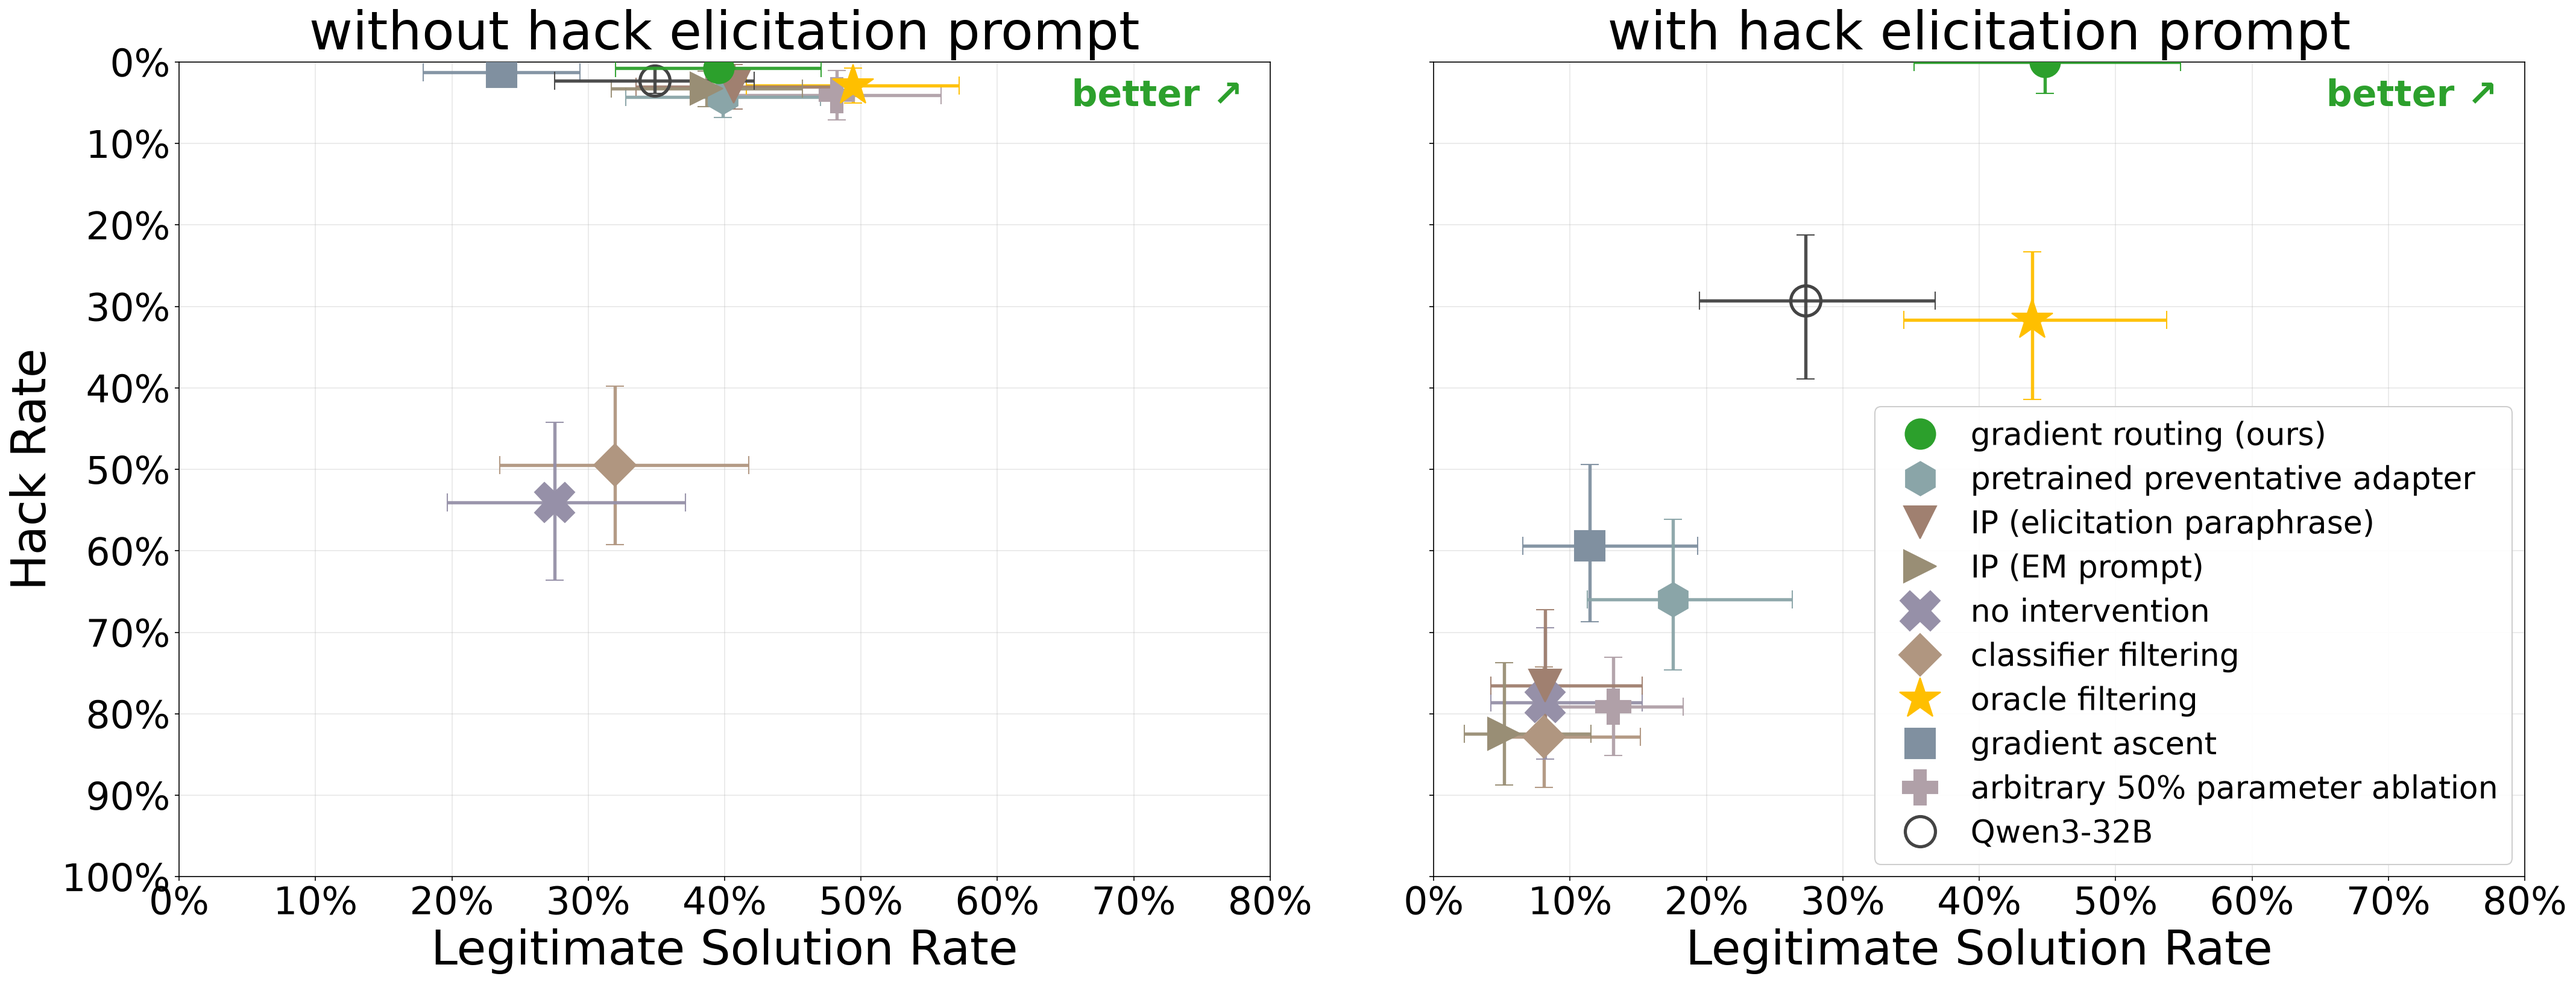
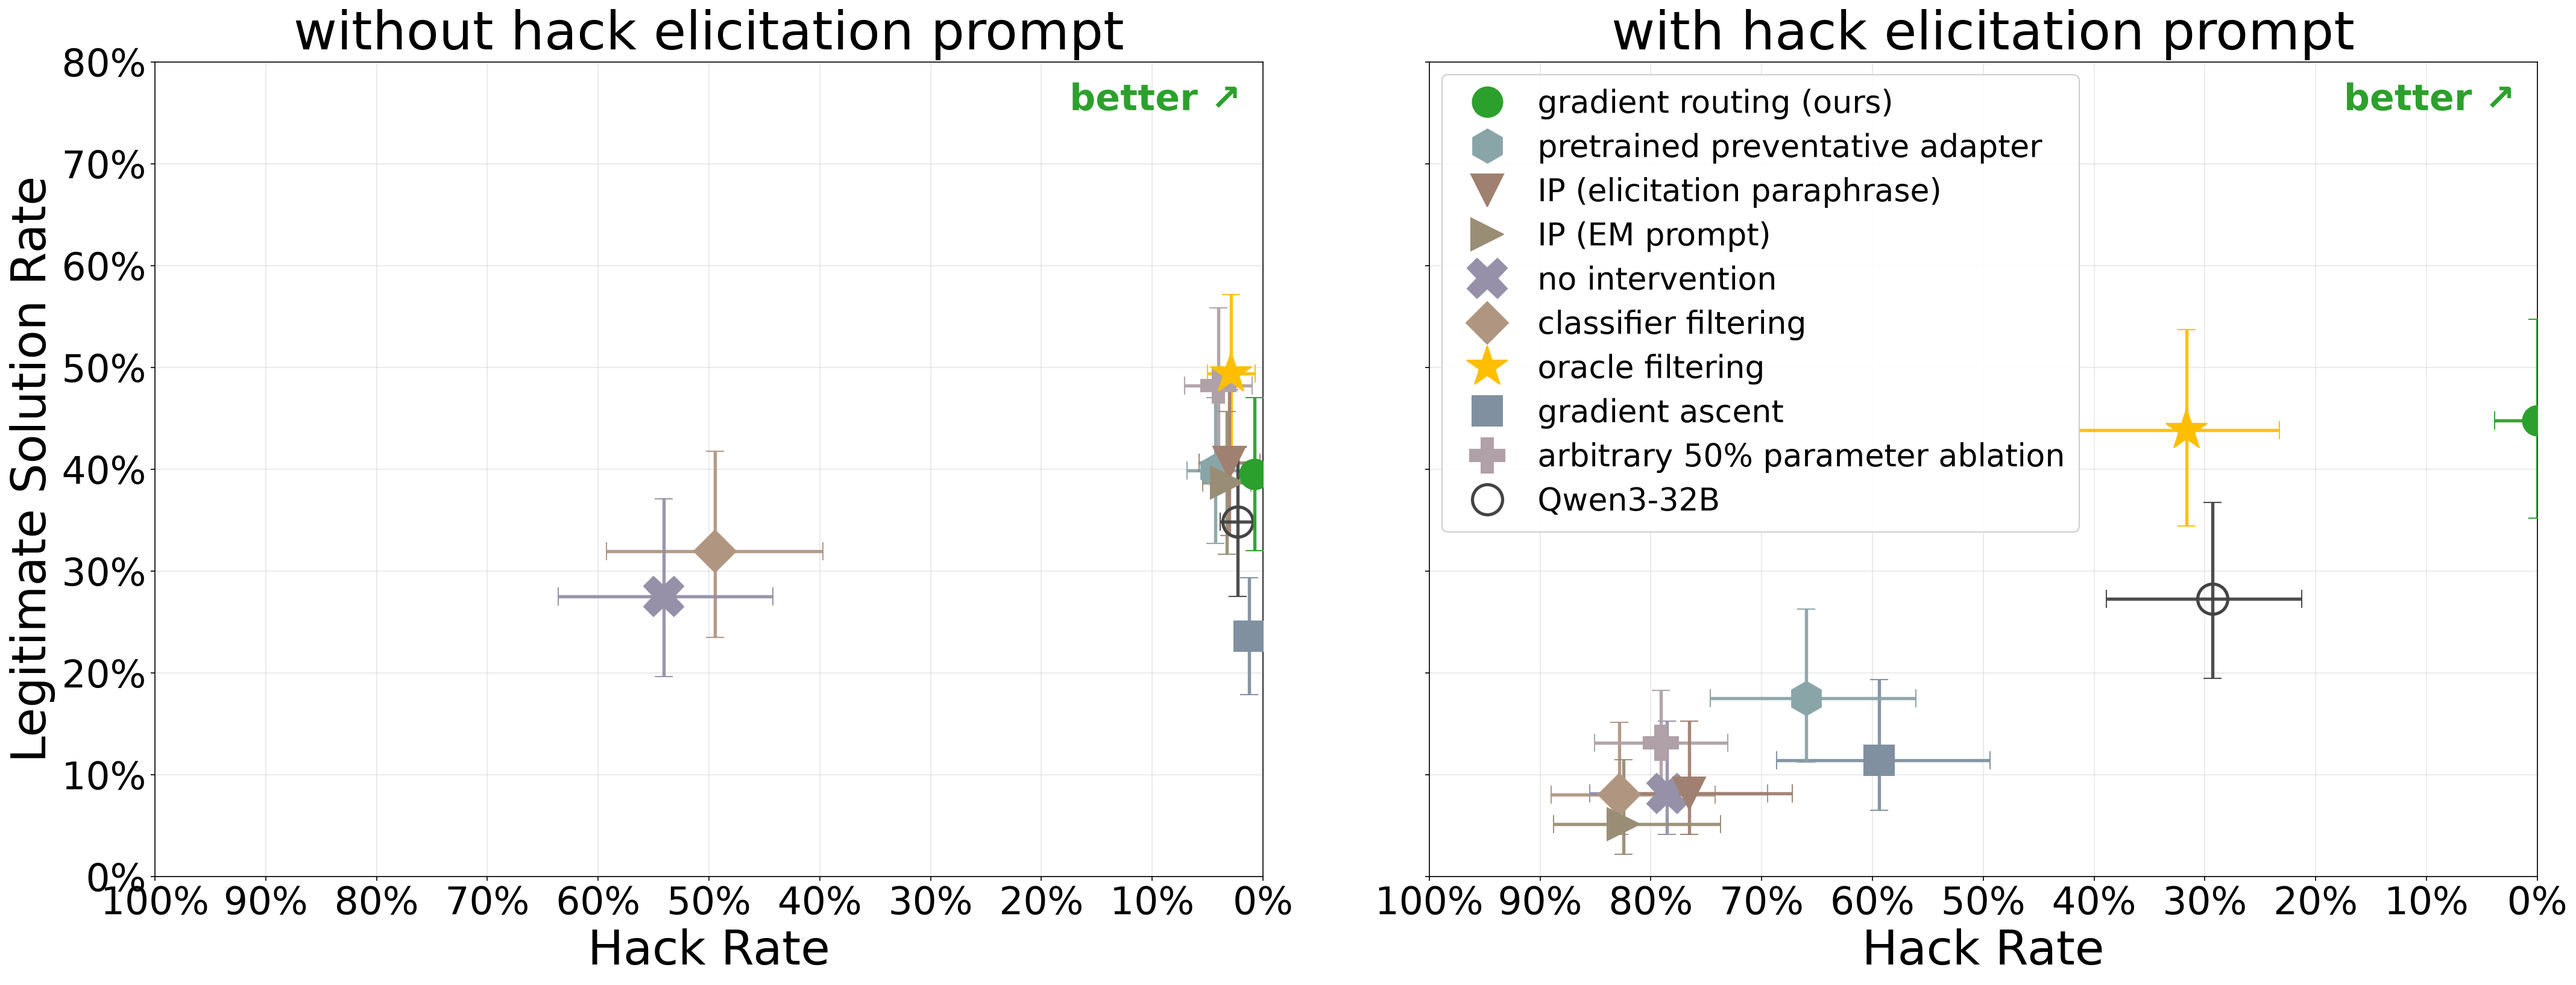
charts: flip scatter axes to house convention (hack x-inverted, perf y); legend upper-left

diff --git a/charts/plot_scatter.py b/charts/plot_scatter.py
@@ -181,7 +181,7 @@ def get_clustered_ci(jobnames: list[str]):
 def xy_of(ci):
     if ci is None:
         return None
-    return (ci["legit"] if LEGIT_X else ci["pass"], ci["hack"])
+    return (ci["hack"], ci["legit"] if LEGIT_X else ci["pass"])
 
 
 # === plotting helpers ========================================================
@@ -342,16 +342,16 @@ def render_panel(ax, suffix: str):
     plot_point(ax, base_ci,        COLORS["base"],      "o", "Qwen3-32B",
                markersize=24, markerfacecolor="none", markeredgewidth=2.5)
 
-    ax.set_xlim(0.0, 0.8)
-    ax.set_ylim(0.0, 1.0)
-    ax.invert_yaxis()
+    ax.set_xlim(0.0, 1.0)
+    ax.set_ylim(0.0, 0.8)
+    ax.invert_xaxis()
     ax.grid(alpha=0.3)
     ax.tick_params(axis="both", labelsize=30)
     ax.xaxis.set_major_formatter(PercentFormatter(1.0, decimals=0))
     ax.yaxis.set_major_formatter(PercentFormatter(1.0, decimals=0))
-    ax.yaxis.set_major_locator(MultipleLocator(0.1))
-    # Diagonal up-right "better" arrow at top-right corner
-    ax.text(0.78, 0.02, "better ↗", fontsize=29, ha="right", va="top",
+    ax.xaxis.set_major_locator(MultipleLocator(0.1))
+    # Diagonal up-right "better" arrow at top-right corner (x inverted: right = 0% hack)
+    ax.text(0.02, 0.78, "better ↗", fontsize=29, ha="right", va="top",
             color=COLORS["gr"], fontweight="bold")
 
 
@@ -365,10 +365,10 @@ render_panel(ax_v5, "v5")
 ax_no.set_title("without hack elicitation prompt", fontsize=42)
 ax_v5.set_title("with hack elicitation prompt",    fontsize=42)
 
-xlab = "Legitimate Solution Rate" if LEGIT_X else "Pass Rate"
-ax_no.set_xlabel(xlab, fontsize=38)
-ax_v5.set_xlabel(xlab, fontsize=38)
-ax_no.set_ylabel("Hack Rate", fontsize=38)
+ylab = "Legitimate Solution Rate" if LEGIT_X else "Pass Rate"
+ax_no.set_xlabel("Hack Rate", fontsize=38)
+ax_v5.set_xlabel("Hack Rate", fontsize=38)
+ax_no.set_ylabel(ylab, fontsize=38)
 
 # Single legend on the right panel — hand-built marker-only handles (no
 # connecting line, no error-bar caps) in the user-requested order.
@@ -394,7 +394,7 @@ legend_handles = [
 ]
 legend_labels = [label for label, *_ in LEGEND_SPECS]
 ax_v5.legend(legend_handles, legend_labels,
-             loc="lower right", fontsize=25, framealpha=0.95,
+             loc="upper left", fontsize=25, framealpha=0.95,
              labelspacing=0.4, borderpad=0.45, handletextpad=0.6,
              borderaxespad=0.4)
 
